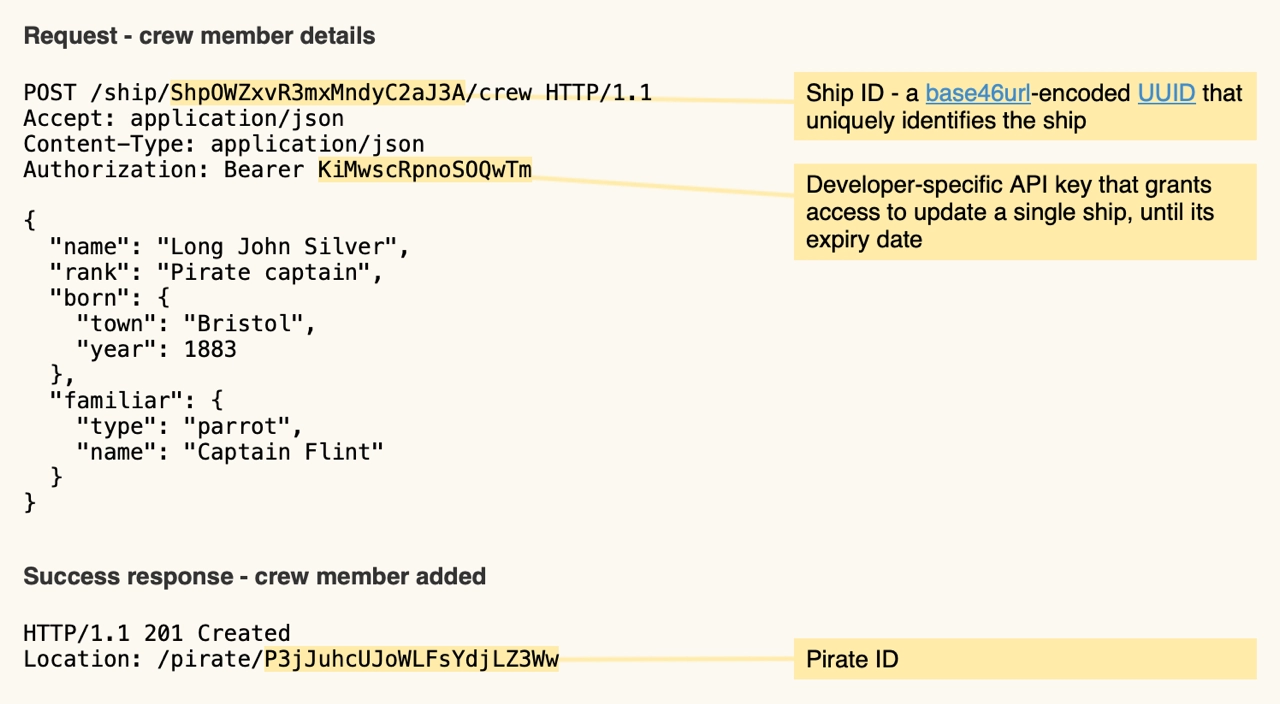
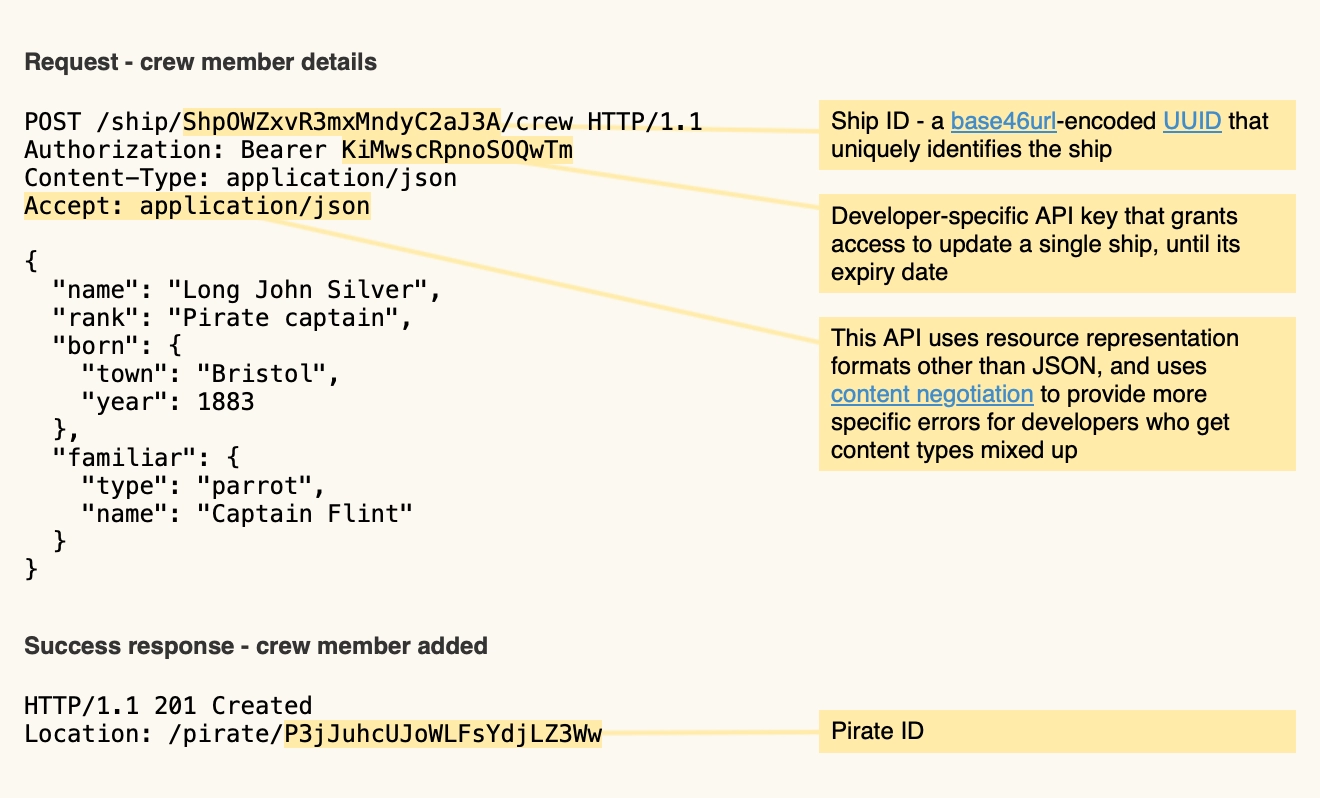
Finish blog post

diff --git a/blog/api/pirates-artisanal-canvas.html b/blog/api/pirates-artisanal-canvas.html
@@ -52,9 +52,9 @@ a, a:visited { color:#428bca; }
 <div class="request" id="ship-crew-get-request">
 <h3>Request - crew member details</h3>
 <pre><code class="lang-http">POST /ship/<a id="anchor-ship-id" class="definition-anchor" href="#ship-id">ShpOWZxvR3mxMndyC2aJ3A</a>/crew HTTP/1.1
-Accept: application/json
-Content-Type: application/json
 Authorization: Bearer <a id="anchor-api-key" class="definition-anchor" href="#api-key">KiMwscRpnoSOQwTm</a>
+Content-Type: application/json
+<a id="anchor-content-negotiation" class="definition-anchor" href="#content-negotiation">Accept: application/json</a>
 
 {
   "name": "Long John Silver",
@@ -73,6 +73,7 @@ Authorization: Bearer <a id="anchor-api-key" class="definition-anchor" href="#ap
 <aside>
 <dfn id="ship-id">Ship ID - a <a href="https://www.rfc-editor.org/rfc/rfc4648#section-5">base46url</a>-encoded <a href="https://en.wikipedia.org/wiki/Universally_unique_identifier">UUID</a> that uniquely identifies the ship</dfn>
 <dfn id="api-key">Developer-specific API key that grants access to update a single ship, until its expiry date</dfn>
+<dfn id="content-negotiation">This API uses resource representation formats other than JSON, and uses <a href="https://developer.mozilla.org/en-US/docs/Web/HTTP/Content_negotiation">content negotiation</a> to provide more specific errors for developers who get content types mixed up</dfn>
 </aside>  
 </div>
 
@@ -113,10 +114,12 @@ function drawCanvases() {
   // Hard-code element IDs instead of looking up elements by class name, to simplify code.
   const arrows = {
     shipId: { canvas: "canvas-request", div: "ship-crew-get-request", start: "anchor-ship-id", end: "ship-id"},
+    contentNegotiation: { canvas: "canvas-request", div: "ship-crew-get-request", start: "anchor-content-negotiation", end: "content-negotiation"},
     apiKey: { canvas: "canvas-request", div: "ship-crew-get-request", start: "anchor-api-key", end: "api-key"},
     pirateId: { canvas: "canvas-response", div: "ship-crew-get-response", start: "anchor-pirate-id", end: "pirate-id"},
   }
   drawArrow(arrows.shipId)
+  drawArrow(arrows.contentNegotiation)
   drawArrow(arrows.apiKey)
   drawArrow(arrows.pirateId)
 }

diff --git a/blog/_posts/2023-01-10-api-docs-annotations-html.md b/blog/_posts/2023-01-10-api-docs-annotations-html.md
@@ -11,10 +11,11 @@ image: canvas.jpg
 [Steve Johnson](https://unsplash.com/photos/QlBdxJK2-nU){:.photocredit}
 
 {:.series}
-1. [Backwards API docs](api-docs-backwards)
-2. [Annotation styles](annotations)
-3. [API docs annotations](api-docs-annotations)
-4. Annotations in HTML
+1. [Explanation order](explanation-order)
+2. [Backwards API docs](api-docs-backwards)
+3. [Annotation styles](annotations)
+4. [API docs annotations](api-docs-annotations)
+5. Annotations in HTML
 
 Previously in this series, [Technical documentation annotations](annotations)
 argued for directly annotating examples, to make explanations disconnected,
@@ -29,7 +30,10 @@ To use this layout in practice, though, readers would want this documentation on
 ## HTML
 
 HTML and CSS make most of the layout straightforward.
-The following HTML example uses the same colours, with a 
+The following HTML example
+([HTML](api/pirates-artisanal.html),
+[source](https://github.com/hilton/hilton.github.com/blob/master/blog/api/pirates-artisanal.html))
+uses the same colours, with a 
 [CSS grid](https://developer.mozilla.org/en-US/docs/Web/CSS/CSS_Grid_Layout) layout.
 
 ![Annotations without arrows](api/pirates-artisanal.webp)
@@ -51,7 +55,8 @@ In CSS, you can draw a line by adding a top border to an otherwise invisible abs
 ![Annotations with horizontal arrows](api/pirates-artisanal-div.webp)
 
 This example
-([HTML/CSS source](https://github.com/hilton/hilton.github.com/blob/master/blog/api/pirates-artisanal-div.html))
+([HTML](api/pirates-artisanal-div.html),
+[source](https://github.com/hilton/hilton.github.com/blob/master/blog/api/pirates-artisanal-div.html))
 adds a top border to three otherwise invisible absolutely-positioned `div` elements:
 
 ```css
@@ -74,7 +79,7 @@ Instead, let’s try a solution that doesn’t require trigonometry.
 The [Canvas API](https://developer.mozilla.org/en-US/docs/Web/API/Canvas_API)
 promises an easier way to draw arrows on an HTML page than, say, 
 [SVG](https://developer.mozilla.org/en-US/docs/Web/SVG).
-Drawing a straight yellow line between `start` and `end` points requires the following JavaScript.
+Drawing a straight yellow line between `start` and `end` points requires the following JavaScript to draw on an HTML `canvas` element.
 
 ```javascript
 const canvas = document.getElementById("canvas")
@@ -88,21 +93,26 @@ path.lineTo(end.x, end.y)
 context.stroke(path)
 ```
 
-To use this, you need coordinates of each highlighted element’s centre point:
+To use this, you need the coordinates of each highlighted element’s centre point:
 
 ```javascript
-const start = document.getElementById("ship-id")
-const width = element.offsetWidth
-const height = element.offsetHeight
-const x = element.offsetLeft + (width / 2)
-const y = element.offsetTop + (height / 2)
-
-const x = element.offsetLeft + (element.offsetWidth / 2)
-const y = element.offsetTop + (element.offsetHeight / 2)
+const start = document.getElementById("anchor-ship-id")
+const x = start.offsetLeft + (start.offsetWidth / 2)
+const y = start.offsetTop + (start.offsetHeight / 2)
 ```
 
-The resulting arrows nicely connect the highlighted example text (left) with its explanation (right):
+In this final example
+([HTML](api/pirates-artisanal-canvas.html),
+[source](https://github.com/hilton/hilton.github.com/blob/master/blog/api/pirates-artisanal-canvas.html)),
+the resulting arrows nicely connect the highlighted example text (left) with its explanation (right):
 
 ![Annotations with diagonal arrows](api/pirates-artisanal-canvas.webp)
 
-Note that this required using the famously-tricky CSS `z-index` property to draw the arrow behind the example text, to avoid obscuring it, and in front of the background colour.
+Note that this required using the famously-tricky CSS `z-index` property to place the canvas behind the example text and explanation text, to avoid obscuring them, and in front of the background colour.
+
+## Documentation systems
+
+This experiment shows that documentation systems could learn from print publishing system layouts, and provide a visually simpler and more readable layout.
+HTTP API documentation, in particular, could use simpler layouts than the overly complex deconstructed layouts that OpenAPI specifications encourage, such as
+[Redoc’s](api-docs-backwards#deconstructed).
+Now we just need a better API documentation tool that renders annotations properly 😀

diff --git a/blog/_posts/2023-01-03-api-docs-annotations.md b/blog/_posts/2023-01-03-api-docs-annotations.md
@@ -12,9 +12,11 @@ image: graffiti-sign.jpg
 [S O C I A L . C U T](https://unsplash.com/photos/nFH8eY7vCG4){:.photocredit}
 
 {:.series}
-1. [Backwards API docs](api-docs-backwards)
-2. [Annotation styles](annotations)
-3. API docs annotations
+1. [Explanation order](explanation-order)
+2. [Backwards API docs](api-docs-backwards)
+3. [Annotation styles](annotations)
+4. API docs annotations
+5. Annotations in HTML
 
 [Documentation annotation styles](annotations), the previous article in this series, claims that a 
 [direct annotations style](annotations#direct) would improve API documentation.

diff --git a/blog/_posts/2022-12-13-explanation-order.md b/blog/_posts/2022-12-13-explanation-order.md
@@ -10,6 +10,13 @@ image: books-non-fiction.jpg
 
 [Karim Ghantous](https://unsplash.com/photos/JHTlgIpNyQA){:.photocredit}
 
+{:.series}
+1. Explanation order
+2. [Backwards API docs](api-docs-backwards)
+3. Annotation styles
+4. API docs annotations
+5. Annotations in HTML
+
 Technical writing, like other specialist skills, uses some straightforward and learnable techniques that only become obvious after you’ve heard (or read) about them.
 This article explains one such technique, that you can use in writing as well as other forms of explanation, such as giving presentations.
 

diff --git a/blog/_posts/2022-12-20-api-docs-backwards.md b/blog/_posts/2022-12-20-api-docs-backwards.md
@@ -11,6 +11,13 @@ image: wrong-way.jpg
 
 [NeONBRAND](https://unsplash.com/photos/-Cmz06-0btw){:.photocredit}
 
+{:.series}
+1. [Explanation order](explanation-order)
+2. Backwards API docs
+3. Annotation styles
+4. API docs annotations
+5. Annotations in HTML
+
 API documentation typically presents information in the wrong order.
 First, come HTTP methods, authorisation information, and other cross-cutting concerns, followed by a breakdown of parameters.
 The resource identifiers (URLs), request and response bodies, and their explanations often appear last, as an afterthought.

diff --git a/blog/_posts/2022-12-27-annotations.md b/blog/_posts/2022-12-27-annotations.md
@@ -12,8 +12,11 @@ image: detour-sign.jpg
 [Ussama Azam](https://unsplash.com/photos/kMb4qE_zj3Q){:.photocredit}
 
 {:.series}
-1. [Backwards API docs](api-docs-backwards)
-2. Annotation styles
+1. [Explanation order](explanation-order)
+2. [Backwards API docs](api-docs-backwards)
+3. Annotation styles
+4. API docs annotations
+5. Annotations in HTML
 
 Technical documentation includes different kinds of content, such as definitions, explanations and examples.
 Readers often find examples easiest to follow, while writers struggle to include them, and end up with
